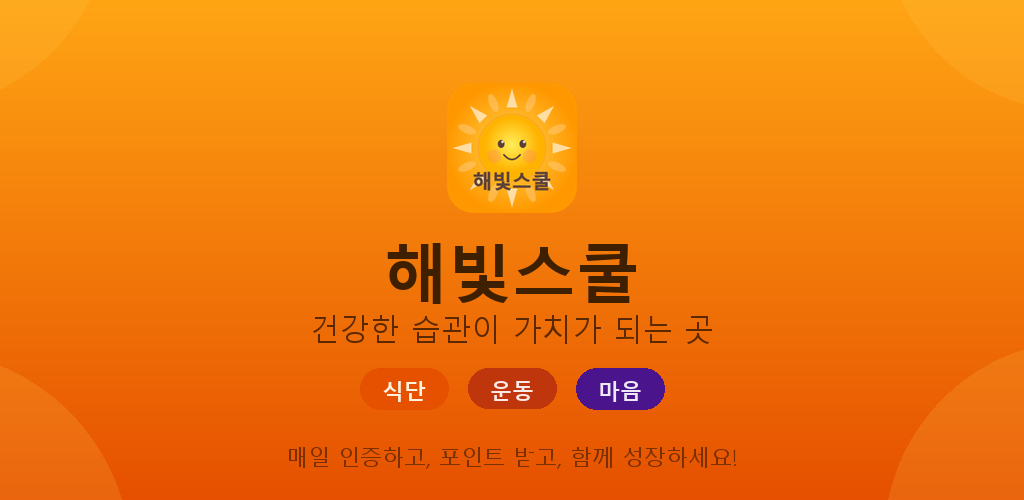
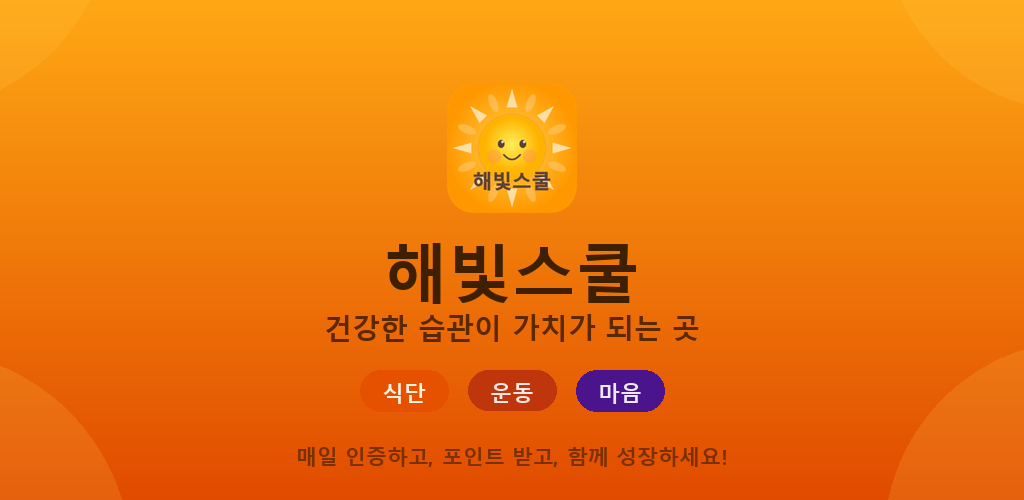
feat: feature-graphic 5가지 테마 버전 + og-image 수정
- feature-graphic 기본(오렌지), 새벽, 그린, 다크, 미니멀 5버전 생성
- 받 글자 깨짐: malgun.ttf → malgunbd.ttf(볼드)로 전환
- 이모지 □ 렌더링: 컬러 pill 배지(식단/운동/마음)로 대체
- og-image 해 아이콘 흰 귀퉁이 수정 (alpha compositing)
- generate_images.py 스크립트 추가

diff --git a/icons/generate_images.py b/icons/generate_images.py
@@ -1,0 +1,187 @@
+# -*- coding: utf-8 -*-
+"""
+feature-graphic 다양한 버전 생성 스크립트
+실행: python generate_images.py
+"""
+import os, sys
+sys.stdout.reconfigure(encoding='utf-8')
+
+from PIL import Image, ImageDraw, ImageFont
+
+BASE    = 'C:/SJ/antigravity/habitschool/icons'
+ICON    = BASE + '/icon-192.png'
+BOLD    = 'C:/Windows/Fonts/malgunbd.ttf'
+REG     = 'C:/Windows/Fonts/malgun.ttf'
+W, H    = 1024, 500
+
+
+def gradient(size, top, bottom):
+    img = Image.new('RGBA', size)
+    w, h = size
+    for y in range(h):
+        t = y / h
+        r = int(top[0] + (bottom[0]-top[0])*t)
+        g = int(top[1] + (bottom[1]-top[1])*t)
+        b = int(top[2] + (bottom[2]-top[2])*t)
+        ImageDraw.Draw(img).line([(0,y),(w,y)], fill=(r,g,b,255))
+    return img
+
+
+def paste_icon(canvas, icon_rgba, cx, cy, size):
+    icon = icon_rgba.resize((size, size), Image.LANCZOS)
+    canvas.paste(icon, (cx - size//2, cy - size//2), icon)
+
+
+def draw_badges(draw, labels_colors, cy, font):
+    """컬러 pill 배지 그리기"""
+    pad_x, pad_y, gap = 22, 10, 20
+    sizes = []
+    for label, bg, _ in labels_colors:
+        bb = draw.textbbox((0,0), label, font=font)
+        sizes.append((bb[2]-bb[0]+pad_x*2, bb[3]-bb[1]+pad_y*2))
+    total_w = sum(s[0] for s in sizes) + gap*(len(sizes)-1)
+    bx = (W - total_w) // 2
+    for i, (label, bg, fg) in enumerate(labels_colors):
+        bw, bh = sizes[i]
+        r = bh // 2
+        draw.rounded_rectangle([bx, cy, bx+bw, cy+bh], radius=r, fill=bg)
+        bb = draw.textbbox((0,0), label, font=font)
+        lw, lh = bb[2]-bb[0], bb[3]-bb[1]
+        draw.text((bx+(bw-lw)//2, cy+(bh-lh)//2-2), label, font=font, fill=fg)
+        bx += bw + gap
+
+
+def make_version(filename, bg_top, bg_bottom, deco_color, deco_alpha,
+                 title_color, sub_color, bottom_color,
+                 tagline, badges, bottom_text,
+                 icon_y=148, title_y=228, sub_y=308, badge_y=370, bottom_y=442):
+    img = gradient((W, H), bg_top, bg_bottom)
+
+    # 반투명 원 장식
+    overlay = Image.new('RGBA', (W,H), (0,0,0,0))
+    d = ImageDraw.Draw(overlay)
+    for cx, cy, r in [(-90,-90,200),(W+50,-80,190),(-80,H+60,210),(W+60,H+40,200)]:
+        d.ellipse([cx-r,cy-r,cx+r,cy+r], fill=(*deco_color, deco_alpha))
+    img = Image.alpha_composite(img, overlay)
+
+    draw = ImageDraw.Draw(img)
+
+    # 아이콘
+    icon = Image.open(ICON).convert('RGBA')
+    paste_icon(img, icon, W//2, icon_y, 130)
+
+    # 타이틀
+    f_title = ImageFont.truetype(BOLD, 64)
+    bb = draw.textbbox((0,0), '해빛스쿨', font=f_title)
+    draw.text(((W-(bb[2]-bb[0]))//2, title_y), '해빛스쿨', font=f_title, fill=title_color)
+
+    # 서브타이틀
+    f_sub = ImageFont.truetype(BOLD, 28)
+    bb = draw.textbbox((0,0), tagline, font=f_sub)
+    draw.text(((W-(bb[2]-bb[0]))//2, sub_y), tagline, font=f_sub, fill=sub_color)
+
+    # 배지
+    f_badge = ImageFont.truetype(BOLD, 22)
+    draw_badges(draw, badges, badge_y, f_badge)
+
+    # 하단 문구 (bold로 렌더링 - regular에서 '받' 깨짐 방지)
+    f_bottom = ImageFont.truetype(BOLD, 21)
+    bb = draw.textbbox((0,0), bottom_text, font=f_bottom)
+    draw.text(((W-(bb[2]-bb[0]))//2, bottom_y), bottom_text, font=f_bottom, fill=bottom_color)
+
+    out = BASE + '/' + filename
+    img.convert('RGB').save(out, 'PNG', optimize=True)
+    print(f'  saved: {filename}')
+
+
+# ──────────────────────────────────────────────────────────────────
+# 버전 정의
+# ──────────────────────────────────────────────────────────────────
+
+versions = [
+
+    # 1. 기본 오렌지 (브랜드 컬러)
+    dict(
+        filename='feature-graphic.png',
+        bg_top=(255,168,20), bg_bottom=(225,75,0),
+        deco_color=(255,200,80), deco_alpha=45,
+        title_color='#3E1F00', sub_color='#5C2800', bottom_color='#7B3000',
+        tagline='건강한 습관이 가치가 되는 곳',
+        badges=[('식단','#E65100','#FFF3E0'),('운동','#BF360C','#FBE9E7'),('마음','#4A148C','#EDE7F6')],
+        bottom_text='매일 인증하고, 포인트 받고, 함께 성장하세요!',
+    ),
+
+    # 2. 새벽 (Dawn) — 네이비→오렌지
+    dict(
+        filename='feature-graphic-dawn.png',
+        bg_top=(22,30,70), bg_bottom=(200,80,0),
+        deco_color=(100,140,255), deco_alpha=30,
+        title_color='#FFE0B2', sub_color='#FFCC80', bottom_color='#FFB74D',
+        tagline='새벽의 한 걸음이 건강을 만듭니다',
+        badges=[('식단','#1565C0','#E3F2FD'),('운동','#E65100','#FFF3E0'),('마음','#4A148C','#EDE7F6')],
+        bottom_text='매일 인증하고, 포인트 받고, 함께 성장하세요!',
+    ),
+
+    # 3. 그린 (Green) — 건강·자연
+    dict(
+        filename='feature-graphic-green.png',
+        bg_top=(56,142,60), bg_bottom=(27,94,32),
+        deco_color=(150,255,150), deco_alpha=35,
+        title_color='#F1F8E9', sub_color='#DCEDC8', bottom_color='#C5E1A5',
+        tagline='오늘의 식단이 내일의 건강입니다',
+        badges=[('식단','#2E7D32','#F1F8E9'),('운동','#F57F17','#FFFDE7'),('마음','#1B5E20','#E8F5E9')],
+        bottom_text='매일 인증하고, 포인트 받고, 함께 성장하세요!',
+    ),
+
+    # 4. 다크 프리미엄 (Dark)
+    dict(
+        filename='feature-graphic-dark.png',
+        bg_top=(30,30,40), bg_bottom=(15,15,25),
+        deco_color=(255,160,50), deco_alpha=25,
+        title_color='#FFD54F', sub_color='#BDBDBD', bottom_color='#9E9E9E',
+        tagline='응급의학과 전문의가 직접 만든 건강 앱',
+        badges=[('식단','#FF6F00','#FFF8E1'),('운동','#D84315','#FBE9E7'),('마음','#6A1B9A','#F3E5F5')],
+        bottom_text='매일 인증하고, 포인트 받고, 함께 성장하세요!',
+    ),
+
+    # 5. 미니멀 화이트 (Minimal)
+    dict(
+        filename='feature-graphic-minimal.png',
+        bg_top=(255,255,255), bg_bottom=(255,243,224),
+        deco_color=(255,160,0), deco_alpha=20,
+        title_color='#3E1F00', sub_color='#E65100', bottom_color='#BF360C',
+        tagline='즐겁게 좋은 습관 만들기',
+        badges=[('식단','#FF6D00','#FFF3E0'),('운동','#E64A19','#FBE9E7'),('마음','#512DA8','#EDE7F6')],
+        bottom_text='매일 인증하고, 포인트 받고, 함께 성장하세요!',
+    ),
+]
+
+
+# og-image 재생성 (흰 귀퉁이 수정 유지)
+def make_og():
+    OG = BASE + '/og-image.png'
+    img = gradient((1200, 630), (255,235,180), (255,200,100))
+    draw = ImageDraw.Draw(img)
+    icon = Image.open(ICON).convert('RGBA')
+    paste_icon(img, icon, 600, 220, 180)
+    f_t = ImageFont.truetype(BOLD, 72)
+    bb = draw.textbbox((0,0), '해빛스쿨', font=f_t)
+    draw.text(((1200-(bb[2]-bb[0]))//2, 332), '해빛스쿨', font=f_t, fill='#3E1F00')
+    f_s = ImageFont.truetype(BOLD, 36)
+    sub = '즐겁게 좋은 습관 만들기'
+    bb = draw.textbbox((0,0), sub, font=f_s)
+    draw.text(((1200-(bb[2]-bb[0]))//2, 424), sub, font=f_s, fill='#7B4A00')
+    img.convert('RGBA').save(OG, 'PNG', optimize=True)
+    print(f'  saved: og-image.png')
+
+
+if __name__ == '__main__':
+    print('Generating images...')
+    for v in versions:
+        make_version(**v)
+    make_og()
+    # 테스트 파일 삭제
+    for f in ['test_font.png','test_font2.png']:
+        p = BASE+'/'+f
+        if os.path.exists(p): os.remove(p)
+    print('All done!')
